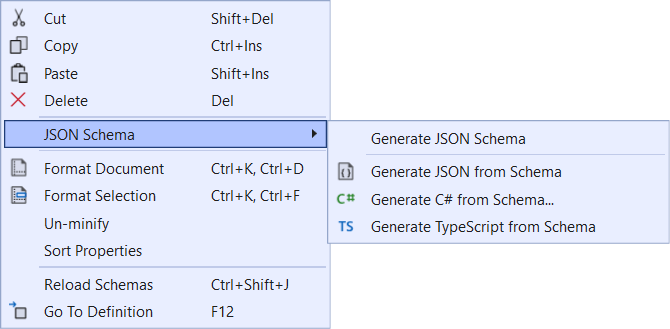
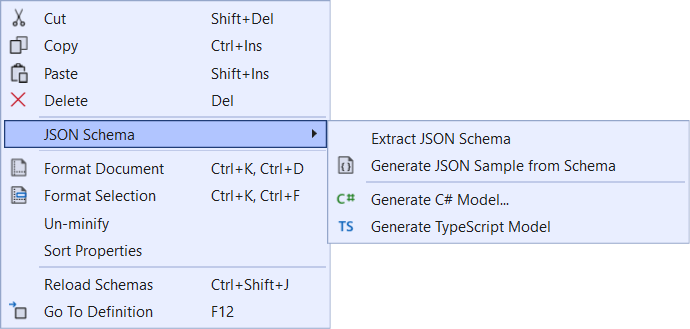
Auto-generate a schema to gen C#/TS models from regular JSON files [release]

diff --git a/src/Commands/GenerateCSharpCommand.cs b/src/Commands/GenerateCSharpCommand.cs
@@ -14,11 +14,10 @@ namespace JsonSchemaGenerator
         protected override async Task ExecuteAsync(OleMenuCmdEventArgs e)
         {
             DocumentView docView = await VS.Documents.GetActiveDocumentViewAsync();
-            JsonSchema schema = await JsonSchema.FromFileAsync(docView.FilePath);
+            JsonSchema schema = await GetOrCreateSchemaAsync(docView);
 
-            if (string.IsNullOrEmpty(schema?.SchemaVersion))
+            if (schema == null)
             {
-                await VS.MessageBox.ShowErrorAsync("The selected JSON file is not a valid schema.");
                 return;
             }
 
@@ -50,6 +49,26 @@ namespace JsonSchemaGenerator
                 await VS.Documents.OpenAsync(dialog.FileName);
                 JsonSchemaGeneratorPackage.RatingPrompt.RegisterSuccessfulUsage();
             }
+        }
+
+
+
+        public static async System.Threading.Tasks.Task<JsonSchema> GetOrCreateSchemaAsync(DocumentView documentView)
+        {
+            JsonSchema schema = await JsonSchema.FromFileAsync(documentView.FilePath);
+
+            if (string.IsNullOrEmpty(schema.SchemaVersion))
+            {
+                schema = JsonSchema.FromSampleJson(documentView.TextBuffer.CurrentSnapshot.GetText());
+            }
+
+            if (!schema.HasActualProperties)
+            {
+                await VS.MessageBox.ShowErrorAsync("The selected JSON file is not a valid schema.");
+                return null;
+            }
+
+            return schema;
         }
     }
 }

diff --git a/src/Commands/GenerateTypescriptCommand.cs b/src/Commands/GenerateTypescriptCommand.cs
@@ -12,11 +12,10 @@ namespace JsonSchemaGenerator
         protected override async Task ExecuteAsync(OleMenuCmdEventArgs e)
         {
             DocumentView docView = await VS.Documents.GetActiveDocumentViewAsync();
-            JsonSchema schema = await JsonSchema.FromFileAsync(docView.FilePath);
+            JsonSchema schema = await GenerateCSharpCommand.GetOrCreateSchemaAsync(docView);
 
-            if (string.IsNullOrEmpty(schema?.SchemaVersion))
+            if (schema == null)
             {
-                await VS.MessageBox.ShowErrorAsync("The selected JSON file is not a valid schema.");
                 return;
             }
 

diff --git a/src/source.extension.cs b/src/source.extension.cs
@@ -12,7 +12,7 @@ namespace JsonSchemaGenerator
         public const string Name = "JSON Schema Tools";
         public const string Description = @"Allows you to easily generate a schema file from a JSON file and generate a JSON file with dummy data based on a schema file.";
         public const string Language = "en-US";
-        public const string Version = "1.0.505";
+        public const string Version = "1.0.507";
         public const string Author = "Mads Kristensen";
         public const string Tags = "json, schema";
     }

diff --git a/src/Commands/GenerateJsonCommand.cs b/src/Commands/GenerateJsonCommand.cs
@@ -11,8 +11,7 @@ namespace JsonSchemaGenerator
         protected override async Task ExecuteAsync(OleMenuCmdEventArgs e)
         {
             DocumentView docView = await VS.Documents.GetActiveDocumentViewAsync();
-
-            JsonSchema schema = await JsonSchema.FromFileAsync(docView.FilePath, Package.DisposalToken);
+            JsonSchema schema = await JsonSchema.FromFileAsync(docView.FilePath);
 
             if (string.IsNullOrEmpty(schema.SchemaVersion))
             {

diff --git a/README.md b/README.md
@@ -16,7 +16,7 @@ Allows you to easily generate a schema file from a JSON file and generate a JSON
 ![screenshot](art/screenshot.png)
 
 ## Generate JSON Schema
-Right-click your JSON file in the editor window and select **Generate JSON Schema...**. A new file will be created with the same name as the JSON file, but with the extension `.schema.json`.
+Right-click your JSON file in the editor window and select **Extract JSON Schema**. A new file will be created with the same name as the JSON file, but with the extension `.schema.json`.
 
 You'll be asked where to place the generated file before it's being generated. Once created, the new schema will be applied to the document automtically.
 
@@ -24,15 +24,15 @@ You'll be asked where to place the generated file before it's being generated. O
 If you already have a local JSON schema file, you can generate files in different formats based on it. 
 
 ### JSON
-To generate a JSON file with dummy data, select the command **Generate JSON from Schema**. The new sample JSON file will automatically get the schema applied to it.
+To generate a JSON file with dummy data, select the command **Generate JSON Sample from Schema**. The new sample JSON file will automatically get the schema applied to it.
 
 ### C#
-To generate a C# class file, select the command **Generate C# from Schema...**. This will open a dialog for you to select various settings.
+To generate a C# class file, select the command **Generate C# Model...**. This will open a dialog for you to select various settings.
 
 ![c# settings](art/csharp-settings.png)
 
 ### TypeScript
-To generate TypeScript types based on the JSON Schema, select the command **Generate TypeScript from Schema**.
+To generate TypeScript types based on the JSON Schema, select the command **Generate TypeScript Model**.
 
 *Powered by [NJsonSchema for .NET](https://github.com/RicoSuter/NJsonSchema) written by [Rico Suter](https://github.com/RicoSuter)*
 
